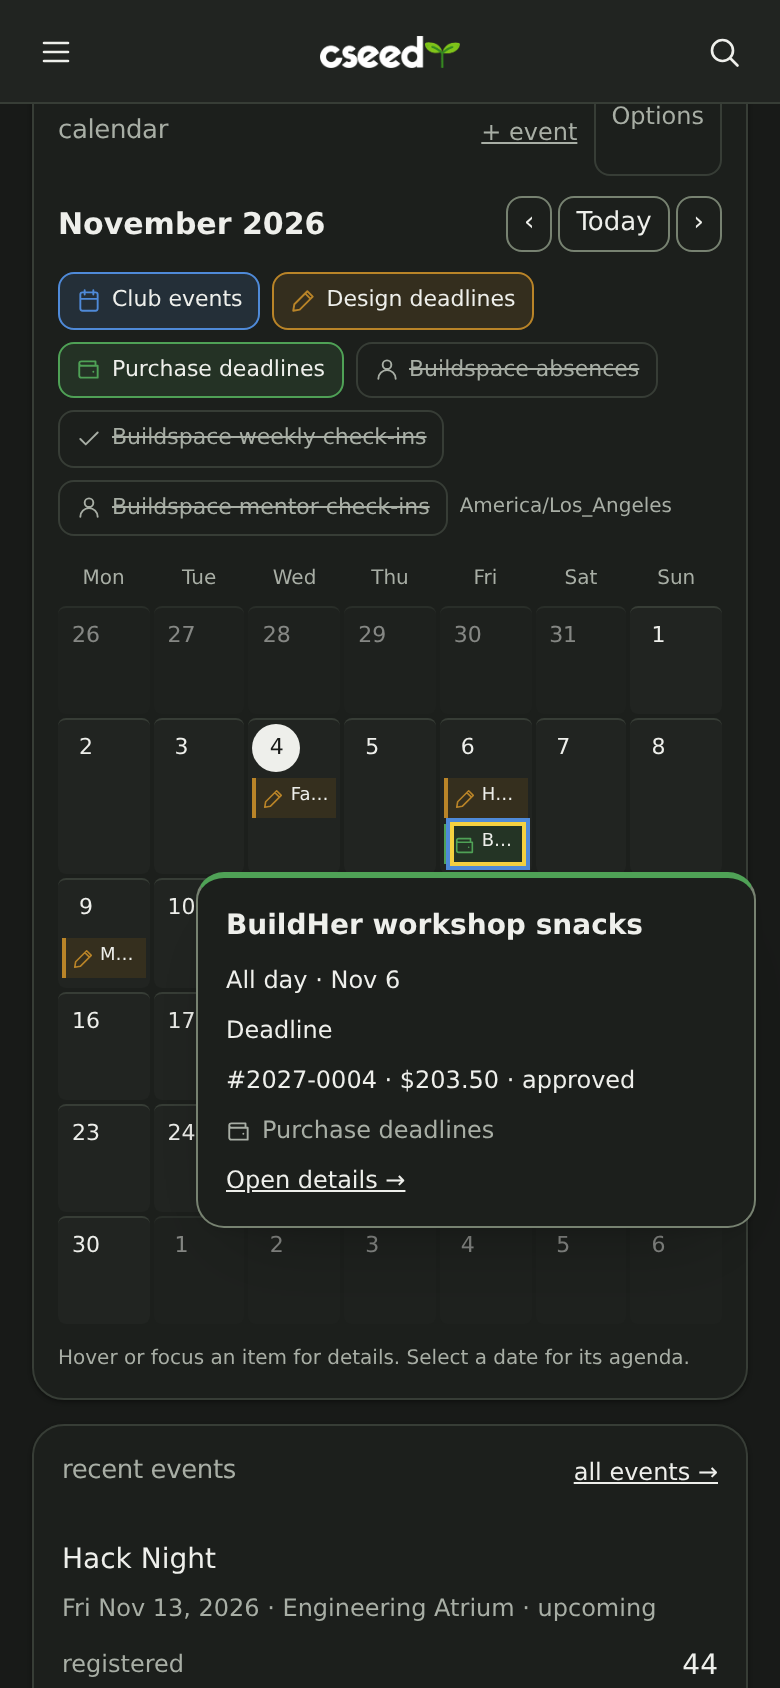
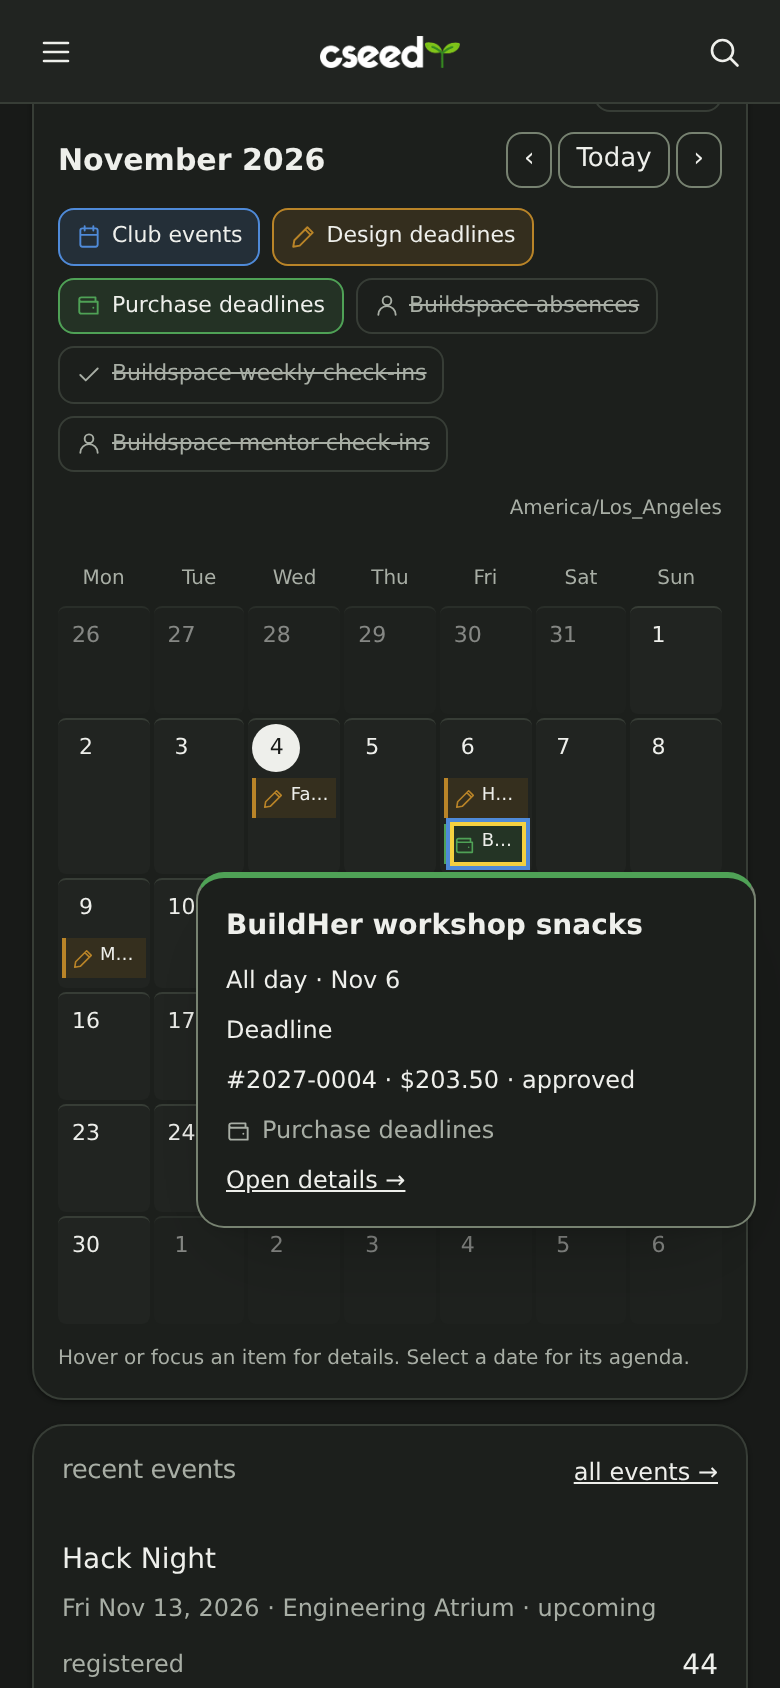
Calendar legend: wrap chips beside the time zone, Sources menu at small sizes
Six source chips overflowed into the time-zone label. Chips now wrap in their
own box with the zone in its own column (own line on phones); 2x1 and 2x2
tiles use a floating Sources (n/total) menu, so opening it shifts nothing.
Toggles use aria-disabled while saving so keyboard focus stays put, and the
initial legend mirrors the registry so it doesn't grow when the feed loads.

Changed region(s): [[0.0615, 0.0616, 0.9231, 0.3081], [0.6154, 0.2773, 0.9231, 0.3081]]

diff --git a/web/src/ui/widgets/CalendarWidget.tsx b/web/src/ui/widgets/CalendarWidget.tsx
@@ -24,9 +24,16 @@ async function loadFeed(start: string, end: string, sources: string, zone: strin
   return data;
 }
 const defaults: CalendarWidgetOptions = { view: 'auto', sources: ['events', 'design'], colourBy: 'source', showWeekends: true };
+// Mirrors store.CalendarSources so the legend paints at its final size before the feed's
+// registry metadata arrives (which then replaces it). Unknown future sources still appear
+// once the feed loads.
 const fallbackSources: CalendarFeedSource[] = [
   { id: 'events', label: 'Club events', icon: 'calendar', hue: 'blue' },
   { id: 'design', label: 'Design deadlines', icon: 'pen', hue: 'amber' },
+  { id: 'purchase-deadlines', label: 'Purchase deadlines', icon: 'wallet', hue: 'green' },
+  { id: 'buildspace-absences', label: 'Buildspace absences', icon: 'user', hue: 'coral' },
+  { id: 'buildspace-weekly', label: 'Buildspace weekly check-ins', icon: 'check', hue: 'teal' },
+  { id: 'buildspace-mentor', label: 'Buildspace mentor check-ins', icon: 'user', hue: 'violet' },
 ];
 const safeHue = (hue?: string) => ['blue', 'amber', 'teal', 'coral', 'violet', 'green'].includes(hue ?? '') ? hue! : 'teal';
 const SOURCE_ICONS = ['pen', 'user', 'check', 'wallet'] as const;
@@ -132,6 +139,12 @@ export default function CalendarWidget({ size }: { size: BlockSize }) {
   const [tick, setTick] = useState(0);
   const [selected, setSelected] = useState<string | null>(null);
   const popover = useRef<HTMLDetailsElement>(null);
+  const sourcesMenu = useRef<HTMLDetailsElement>(null);
+  useEffect(() => {
+    const outside = (e: PointerEvent) => { const menu = sourcesMenu.current; if (menu?.open && !menu.contains(e.target as Node)) menu.open = false; };
+    document.addEventListener('pointerdown', outside);
+    return () => document.removeEventListener('pointerdown', outside);
+  }, []);
   const [now, setNow] = useState(pacificToday);
   useEffect(() => {
     let alive = true;
@@ -194,6 +207,18 @@ export default function CalendarWidget({ size }: { size: BlockSize }) {
     </div>;
   };
   const shownAgenda = selected ? [selected] : agendaDates;
+  // Six source chips need a full-width (4×2) tile; smaller tiles use a compact menu whose
+  // panel floats over the calendar, so opening it never moves the layout.
+  const menuLegend = size !== '4x2';
+  const shownCount = sourceDefs.filter(source => options.sources.includes(source.id)).length;
+  const toggles = <div class="cw-sources" role="group" aria-label="Calendar sources">
+    {sourceDefs.map(source => <button type="button" key={source.id} class="cw-source-toggle" style={{ '--cw-colour': `var(--c-${safeHue(source.hue)})` }}
+      // aria-disabled while saving keeps keyboard focus on the toggle (disabling would drop it).
+      aria-pressed={options.sources.includes(source.id)} disabled={!settingsReady} aria-disabled={saving || undefined}
+      onClick={() => !saving && save({ ...options, sources: options.sources.includes(source.id) ? options.sources.filter(id => id !== source.id) : [...options.sources, source.id] }, false)}>
+      <Icon name={sourceIcon(source)} size={13} />{source.label}
+    </button>)}
+  </div>;
   return <section class={`tile cw cw--${view}${compact ? ' cw--compact' : ''}`} aria-labelledby="calendar-widget-title" data-block="calendar">
     <header class="tile-head">
       <h2 class="tile-title" id="calendar-widget-title">calendar</h2>
@@ -221,12 +246,16 @@ export default function CalendarWidget({ size }: { size: BlockSize }) {
       <strong aria-live="polite">{label}</strong>
       <div class="cw-nav" role="group" aria-label="Calendar dates"><button class="btn btn--small" aria-label="Previous calendar period" onClick={() => navigate(-1)}>‹</button><button class="btn btn--small" onClick={() => { setAnchor(pacificToday()); setSelected(null); }}>Today</button><button class="btn btn--small" aria-label="Next calendar period" onClick={() => navigate(1)}>›</button></div>
     </div>
-    <div class="cw-legend" role="group" aria-label="Calendar sources">
-      {sourceDefs.map(source => <button type="button" key={source.id} class="cw-source-toggle" style={{ '--cw-colour': `var(--c-${safeHue(source.hue)})` }}
-        aria-pressed={options.sources.includes(source.id)} disabled={saving || !settingsReady}
-        onClick={() => save({ ...options, sources: options.sources.includes(source.id) ? options.sources.filter(id => id !== source.id) : [...options.sources, source.id] }, false)}>
-        <Icon name={sourceIcon(source)} size={13} />{source.label}
-      </button>)}
+    <div class={`cw-legend${menuLegend ? ' cw-legend--menu' : ''}`}>
+      {menuLegend ? <details class="cw-sources-menu" ref={sourcesMenu}
+        onKeyDown={e => { if (e.key === 'Escape' && sourcesMenu.current?.open) { e.preventDefault(); sourcesMenu.current.open = false; sourcesMenu.current.querySelector('summary')?.focus(); } }}
+        onFocusOut={e => { const next = e.relatedTarget as Node | null; if (next && !sourcesMenu.current?.contains(next)) sourcesMenu.current?.removeAttribute('open'); }}>
+        <summary aria-label={`Calendar sources, ${shownCount} of ${sourceDefs.length} shown`}>
+          <span class="cw-sources-dots" aria-hidden="true">{sourceDefs.filter(source => options.sources.includes(source.id)).slice(0, 4).map(source => <span key={source.id} style={{ '--cw-colour': `var(--c-${safeHue(source.hue)})` }} />)}</span>
+          Sources ({shownCount}/{sourceDefs.length})
+        </summary>
+        <div class="cw-sources-panel">{toggles}</div>
+      </details> : toggles}
       {!compact && <span class="cw-zone">{zone}</span>}
     </div>
     {error ? <p role="alert">{error} <button class="btn btn--small" onClick={() => setTick(t => t + 1)}>Retry</button></p> : <Async state={feed ? { status: 'ready', data: feed } : { status: 'loading' }} loading={<Loading rows={compact ? 1 : 3} label="Loading calendar" />}>{() => <>

diff --git a/web/tests/purchase-deadline.spec.ts b/web/tests/purchase-deadline.spec.ts
@@ -1,5 +1,6 @@
 import { test, expect, type Page } from '@playwright/test';
 import { devLogin, devSignIn, overflow, settle, THEMES, useTheme, watchErrors } from './helpers';
+import { defaultWidgetLayout } from '../src/ui/widgets/registry';
 
 /**
  * V0.6 purchase "needed by" deadlines: the form, the Finance list (due hints and deadline
@@ -159,4 +160,79 @@ for (const theme of THEMES) {
     }
     expect(errors).toEqual([]);
   });
+}
+
+/** Rectangles of the legend's chips/summary and the time-zone label. */
+const legendBoxes = (page: Page) =>
+  page.locator('.cw-legend').evaluate((legend) => {
+    const r = (el: Element) => { const b = el.getBoundingClientRect(); return { x: b.left, y: b.top, w: b.width, h: b.height }; };
+    return {
+      legend: r(legend),
+      items: [...legend.querySelectorAll(':scope > .cw-sources > .cw-source-toggle, :scope > .cw-sources-menu > summary')].map(r),
+      zone: legend.querySelector(':scope > .cw-zone') ? r(legend.querySelector(':scope > .cw-zone')!) : null,
+    };
+  });
+const overlaps = (a: { x: number; y: number; w: number; h: number }, b: { x: number; y: number; w: number; h: number }) =>
+  a.x < b.x + b.w - 0.5 && b.x < a.x + a.w - 0.5 && a.y < b.y + b.h - 0.5 && b.y < a.y + a.h - 0.5;
+
+for (const theme of THEMES) {
+  for (const size of ['4x2', '2x2', '2x1'] as const) {
+    test(`calendar legend fits at ${size} without overlap or layout shift · ${theme}`, async ({ page }, info) => {
+      const errors = watchErrors(page);
+      await page.clock.setFixedTime(FIXED);
+      await useTheme(page, theme);
+      await devLogin(page, 'director');
+      await page.request.put('/api/me/prefs', { data: { dashboardTutorialSeen: true, widgetLayout: [{ id: 'calendar', size }, { id: 'links', size: '2x1' }] } });
+      await page.request.put('/api/me/calendar-widget', { data: { view: 'auto', colourBy: 'source', showWeekends: true, sources: ['events', 'design', 'purchase-deadlines'] } });
+      // Hold the feed so the legend's first paint (before registry metadata) can be measured.
+      let release!: () => void;
+      const held = new Promise<void>((r) => (release = r));
+      await page.route('**/api/calendar/feed**', async (route) => { await held; await route.continue(); });
+      await page.goto('/');
+      const widget = page.locator('section[data-block="calendar"]');
+      await expect(widget.locator('.cw-legend')).toBeVisible();
+      const before = await legendBoxes(page);
+      release();
+      await expect(widget.locator('.cw-grid, .cw-agenda, .cw-empty').first()).toBeVisible();
+      await settle(page);
+      const after = await legendBoxes(page);
+      expect(after.legend.h, 'legend height is stable once sources load').toBeCloseTo(before.legend.h, 0);
+      if (after.zone) for (const item of after.items) expect(overlaps(item, after.zone), 'time zone overlaps a source control').toBe(false);
+      for (const item of after.items) expect(item.x + item.w).toBeLessThanOrEqual(after.legend.x + after.legend.w + 0.5);
+      expect(await overflow(page)).toEqual([]);
+
+      if (size === '4x2') {
+        await expect(widget.locator('.cw-sources-menu')).toHaveCount(0);
+        await expect(widget.getByRole('group', { name: 'Calendar sources' }).getByRole('button')).toHaveCount(6);
+      } else {
+        const summary = widget.locator('.cw-sources-menu summary');
+        await expect(summary).toHaveText(/Sources \(3\/6\)/);
+        const gridBox = await widget.locator('.cw-legend').evaluate((el) => el.nextElementSibling?.getBoundingClientRect().top ?? 0);
+        await summary.focus();
+        await page.keyboard.press('Enter');
+        const toggle = widget.getByRole('group', { name: 'Calendar sources' }).getByRole('button', { name: /Purchase deadlines/ });
+        await expect(toggle).toBeVisible();
+        expect(await widget.locator('.cw-legend').evaluate((el) => el.nextElementSibling?.getBoundingClientRect().top ?? 0), 'opening the menu moves nothing').toBeCloseTo(gridBox, 0);
+        // The floating panel sits above neighbouring widgets: its last toggle receives pointer hits.
+        await widget.locator('.cw-sources-panel button').last().click({ trial: true, timeout: 5_000 });
+        expect(await overflow(page)).toEqual([]);
+        if (SHOTS && info.project.name !== 'tablet') await widget.screenshot({ path: `${shotDir}/legend-${size}-${info.project.name}-${theme}.png` });
+        // Keyboard: Tab moves from the summary into the panel's toggles.
+        await page.keyboard.press('Tab');
+        await expect(widget.locator('.cw-sources-panel button').first()).toBeFocused();
+        await toggle.focus();
+        const put = page.waitForResponse((r) => r.url().endsWith('/api/me/calendar-widget') && r.request().method() === 'PUT');
+        await page.keyboard.press('Enter');
+        expect((await put).ok()).toBe(true);
+        await expect(toggle).toHaveAttribute('aria-pressed', 'false');
+        await expect(summary).toHaveText(/Sources \(2\/6\)/);
+        await page.keyboard.press('Escape');
+        await expect(toggle).toBeHidden();
+        await expect(summary).toBeFocused();
+      }
+      if (SHOTS && info.project.name !== 'tablet' && size === '4x2') await widget.screenshot({ path: `${shotDir}/legend-${size}-${info.project.name}-${theme}.png` });
+      await page.request.put('/api/me/prefs', { data: { widgetLayout: defaultWidgetLayout } });
+      expect(errors).toEqual([]);
+    });
+  }
 }

diff --git a/web/src/styles/calendar-widget.css b/web/src/styles/calendar-widget.css
@@ -45,9 +45,26 @@
  .cw-day {min-height: 54px; padding: 2px;}
  .cw-item--mini .cw-item-title {font-size: 9px;}
  .cw-zone {line-height: 1.7;}
+ .cw-legend .cw-zone {line-height: 26px;}
 }
 /* Source controls use both colour and shape; muted sources remain available to enable. */
-.cw-legend {display: flex; align-items: center; gap: 6px; flex-wrap: wrap;}
+/* Chips wrap inside their own box; the time zone keeps its own column (or line), so the
+   two can never overlap however many sources are registered. */
+.cw-legend {display: flex; align-items: flex-start; gap: 6px 12px; flex-wrap: wrap;}
+.cw-sources {display: flex; align-items: center; gap: 6px; flex-wrap: wrap; flex: 1 1 320px; min-width: 0;}
+.cw-legend .cw-zone {flex: none; margin-left: auto; white-space: nowrap; line-height: 26px;}
+.cw-source-toggle {white-space: nowrap; max-width: 100%;}
+.cw-source-toggle[aria-disabled="true"] {cursor: progress; opacity: .75;}
+.cw-legend--menu {align-items: center;}
+.cw-sources-menu {position: relative;}
+.cw-sources-menu summary {display: inline-flex; align-items: center; gap: 6px; font-size: 12px; color: var(--text); white-space: nowrap; cursor: pointer; list-style: none; border: 1px solid var(--line); border-radius: var(--radius-control); padding: 4px 8px; min-height: 28px; box-sizing: border-box;}
+.cw-sources-menu summary::-webkit-details-marker {display: none;}
+.cw-sources-menu summary::after {content: '▾'; font-size: 10px; color: var(--muted);}
+.cw-sources-dots {display: inline-flex; gap: 2px;}
+.cw-sources-dots span {width: 6px; height: 6px; border-radius: 50%; background: var(--cw-colour);}
+.cw-sources-panel {position: absolute; left: 0; top: calc(100% + 4px); z-index: 6; width: max-content; max-width: min(260px, calc(100vw - 48px)); padding: 8px; background: var(--surface); border: 1px solid var(--control); border-radius: var(--radius-overlay); box-shadow: var(--block-lift);}
+.cw-sources-panel .cw-sources {flex-direction: column; align-items: stretch; flex-wrap: nowrap;}
+.cw-sources-panel .cw-source-toggle {justify-content: flex-start;}
 .cw-source-toggle {display: inline-flex; align-items: center; gap: 5px; font: inherit; font-size: 11px; padding: 5px 8px; border: 1px solid var(--cw-colour); border-radius: var(--radius-control); color: var(--text); background: color-mix(in srgb, var(--cw-colour) 15%, var(--surface)); cursor: pointer;}
 .cw-source-toggle .icon {color: var(--cw-colour); flex-shrink: 0;}
 .cw-source-toggle[aria-pressed="false"] {background: var(--surface); border-color: var(--line); color: var(--muted); text-decoration: line-through;}

diff --git a/docs/purchase-deadlines.md b/docs/purchase-deadlines.md
@@ -75,7 +75,7 @@ range query and the deadline sort.
   single day), status filtering, draft privacy, date stability across time zones, and
   role-based defaults.
 - Playwright (`web/tests/purchase-deadline.spec.ts`, phone/tablet/desktop, light and dark):
-  form validation and `min`, list hints and sort, inline edit, another officer can't edit,
+  form validation and `min`, list hints and sort, the calendar legend at 4×2/2×2/2×1 (no time-zone overlap, no layout shift on load or menu open, keyboard toggling), inline edit, another officer can't edit,
   the calendar chip, popover and toggle, My actions hint, and the overdue state.
   `DEADLINE_SHOTS=1` regenerates the screenshots below. The browser clock is fixed at
   2026-11-04 (and 2026-11-08 for overdue).
@@ -92,3 +92,16 @@ range query and the deadline sort.
 | Overdue, phone | ![overdue-phone-light](evidence/purchase-deadlines/overdue-phone-light.png) | ![overdue-phone-dark](evidence/purchase-deadlines/overdue-phone-dark.png) |
 | Detail, desktop | ![detail-desktop-light](evidence/purchase-deadlines/detail-desktop-light.png) | ![detail-desktop-dark](evidence/purchase-deadlines/detail-desktop-dark.png) |
 | Detail, phone | ![detail-phone-light](evidence/purchase-deadlines/detail-phone-light.png) | ![detail-phone-dark](evidence/purchase-deadlines/detail-phone-dark.png) |
+
+### Calendar legend at each size
+
+With six sources, small and medium widgets use a compact **Sources** menu. The full chip row wraps without touching the time-zone label.
+
+| | Light | Dark |
+| --- | --- | --- |
+| 4×2, desktop | ![legend-4x2-desktop-light](evidence/purchase-deadlines/legend-4x2-desktop-light.png) | ![legend-4x2-desktop-dark](evidence/purchase-deadlines/legend-4x2-desktop-dark.png) |
+| 4×2, phone | ![legend-4x2-phone-light](evidence/purchase-deadlines/legend-4x2-phone-light.png) | ![legend-4x2-phone-dark](evidence/purchase-deadlines/legend-4x2-phone-dark.png) |
+| 2×2 (menu open), desktop | ![legend-2x2-desktop-light](evidence/purchase-deadlines/legend-2x2-desktop-light.png) | ![legend-2x2-desktop-dark](evidence/purchase-deadlines/legend-2x2-desktop-dark.png) |
+| 2×2 (menu open), phone | ![legend-2x2-phone-light](evidence/purchase-deadlines/legend-2x2-phone-light.png) | ![legend-2x2-phone-dark](evidence/purchase-deadlines/legend-2x2-phone-dark.png) |
+| 2×1 (menu open), desktop | ![legend-2x1-desktop-light](evidence/purchase-deadlines/legend-2x1-desktop-light.png) | ![legend-2x1-desktop-dark](evidence/purchase-deadlines/legend-2x1-desktop-dark.png) |
+| 2×1 (menu open), phone | ![legend-2x1-phone-light](evidence/purchase-deadlines/legend-2x1-phone-light.png) | ![legend-2x1-phone-dark](evidence/purchase-deadlines/legend-2x1-phone-dark.png) |

diff --git a/docs/calendar-widget.md b/docs/calendar-widget.md
@@ -21,7 +21,13 @@ and 4×2 sizes.
 
 Options saves view, sources, colour grouping and weekend visibility to the signed-in
 officer's account. Small widgets always use an agenda; other sizes allow explicit
-agenda, week or month views. Toggle sources directly in the legend; calendar icons mark blue club events and pen
+agenda, week or month views. At 4×2 the legend shows every source as a chip; chips wrap
+inside their own area and the time-zone label keeps its own column (or line on phones), so
+they never overlap. At 2×1 and 2×2 the chips collapse into a **Sources (n/total)** menu whose
+panel floats over the calendar, so opening it moves nothing; Tab reaches the toggles and
+Escape closes it and returns focus. Toggles stay focusable while a change saves. The
+legend's initial source list mirrors the server registry, so it doesn't grow when the
+feed loads. Toggle sources directly in the legend; calendar icons mark blue club events and pen
 icons mark amber design deadlines. Legend changes save immediately. Hover or focus
 a month/week chip to see its time, location, source, detail link and Luma link.
 Timed chips include a compact start time (for example, **6p Hack Night**). Each day
